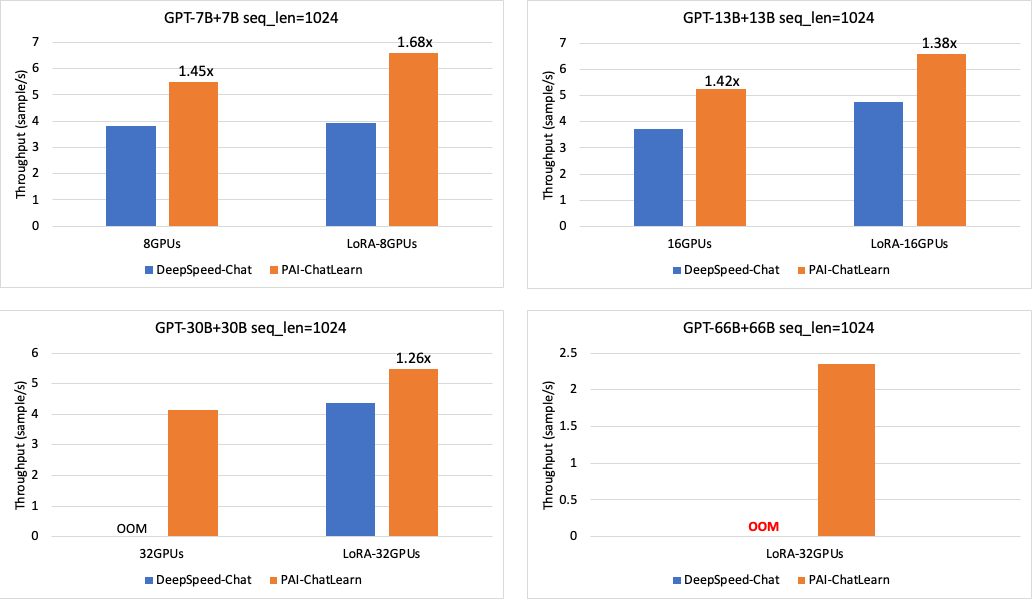
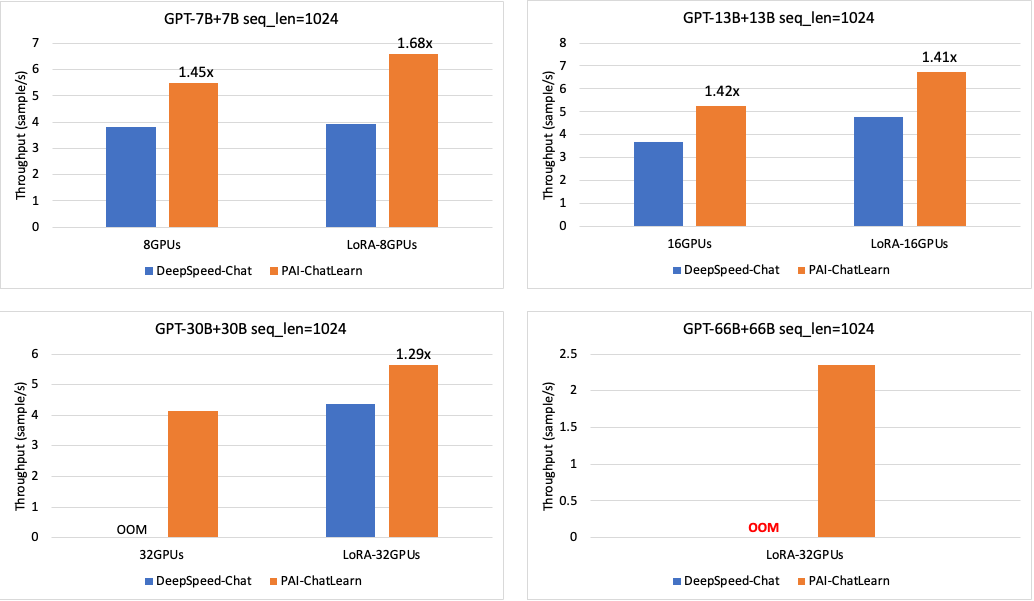
update perf data

diff --git a/docs/zh/chatlearn.md b/docs/zh/chatlearn.md
@@ -17,7 +17,7 @@ ChatGPT 是由 OpenAI 开发的基于大型语言模型 (Large Language Model, L
 2. ChatLearn 支持灵活的资源调度机制，支持各模型的资源独占或复用，通过系统调度策略支持高效的串行/并行执行；
 3. 用户可以使用不同的计算 backend 进行模型建模，如 Megatron-LM、DeepSpeed 等。
 4. 用户只需要专注于单模型的编程，系统负责资源调度、数据流传输、控制流传输、分布式执行等。
-5. 相较于当前的 SOTA 系统，ChatLearn 在 7B 到 30 B 规模提升 26%-68%。同时，ChatLearn 支持更大规模的 RLHF 训练 (175B Policy + 175B Reward)。
+5. 相较于当前的 SOTA 系统，ChatLearn 在 7B 到 30 B 规模提升 29%-68%。同时，ChatLearn 支持更大规模的 RLHF 训练 (175B Policy + 175B Reward)。
 
 # 技术架构
 
@@ -78,7 +78,7 @@ bash run_scripts/llama/run_13b_13b.sh
 
 # 性能评估
 
-我们比较了不同参数量规模模型的 RLHF 训练吞吐量，我们采取 N+N 的模型配置，即 Policy 模型和 Reward 模型采用相同大小的参数量。测试基于 A800-80GB GPU 进行，单节点配置 8 卡 GPU，节点间采用 800Gb RDMA 互联。我们和 DeepSpeed-Chat 对比了从 7B 到 66B 的模型配置，关闭/开启 LoRA 后的性能对比，ChatLearn 在不同规模有 26% 到 68% 的加速，在更大的规模下，在 30B+30B，32GPUs 的配置下，不开启 LoRA 的情况下，DeepSpeed-chat 出现 OOM，在 66B+66B，32GPUs 的配置下，DeepSpeed-Chat 无论是否开启 LoRA 均会出现 OOM，ChatLearn 在相同机器规模下，可以支持更大的模型配置训练。在 seq_len=2048 时，DeepSpeed-Chat 出现了 kernel error。
+我们比较了不同参数量规模模型的 RLHF 训练吞吐量，我们采取 N+N 的模型配置，即 Policy 模型和 Reward 模型采用相同大小的参数量。测试基于 A800-80GB GPU 进行，单节点配置 8 卡 GPU，节点间采用 800Gb RDMA 互联。我们和 DeepSpeed-Chat 对比了从 7B 到 66B 的模型配置，关闭/开启 LoRA 后的性能对比，ChatLearn 在不同规模有 29% 到 68% 的加速，在更大的规模下，在 30B+30B，32GPUs 的配置下，不开启 LoRA 的情况下，DeepSpeed-chat 出现 OOM，在 66B+66B，32GPUs 的配置下，DeepSpeed-Chat 无论是否开启 LoRA 均会出现 OOM，ChatLearn 在相同机器规模下，可以支持更大的模型配置训练。在 seq_len=2048 时，DeepSpeed-Chat 出现了 kernel error。
 
 ![Compare PAI-ChatLearn with DeepSpeed-Chat](../images/gpt-perf-cmp.png)
 
